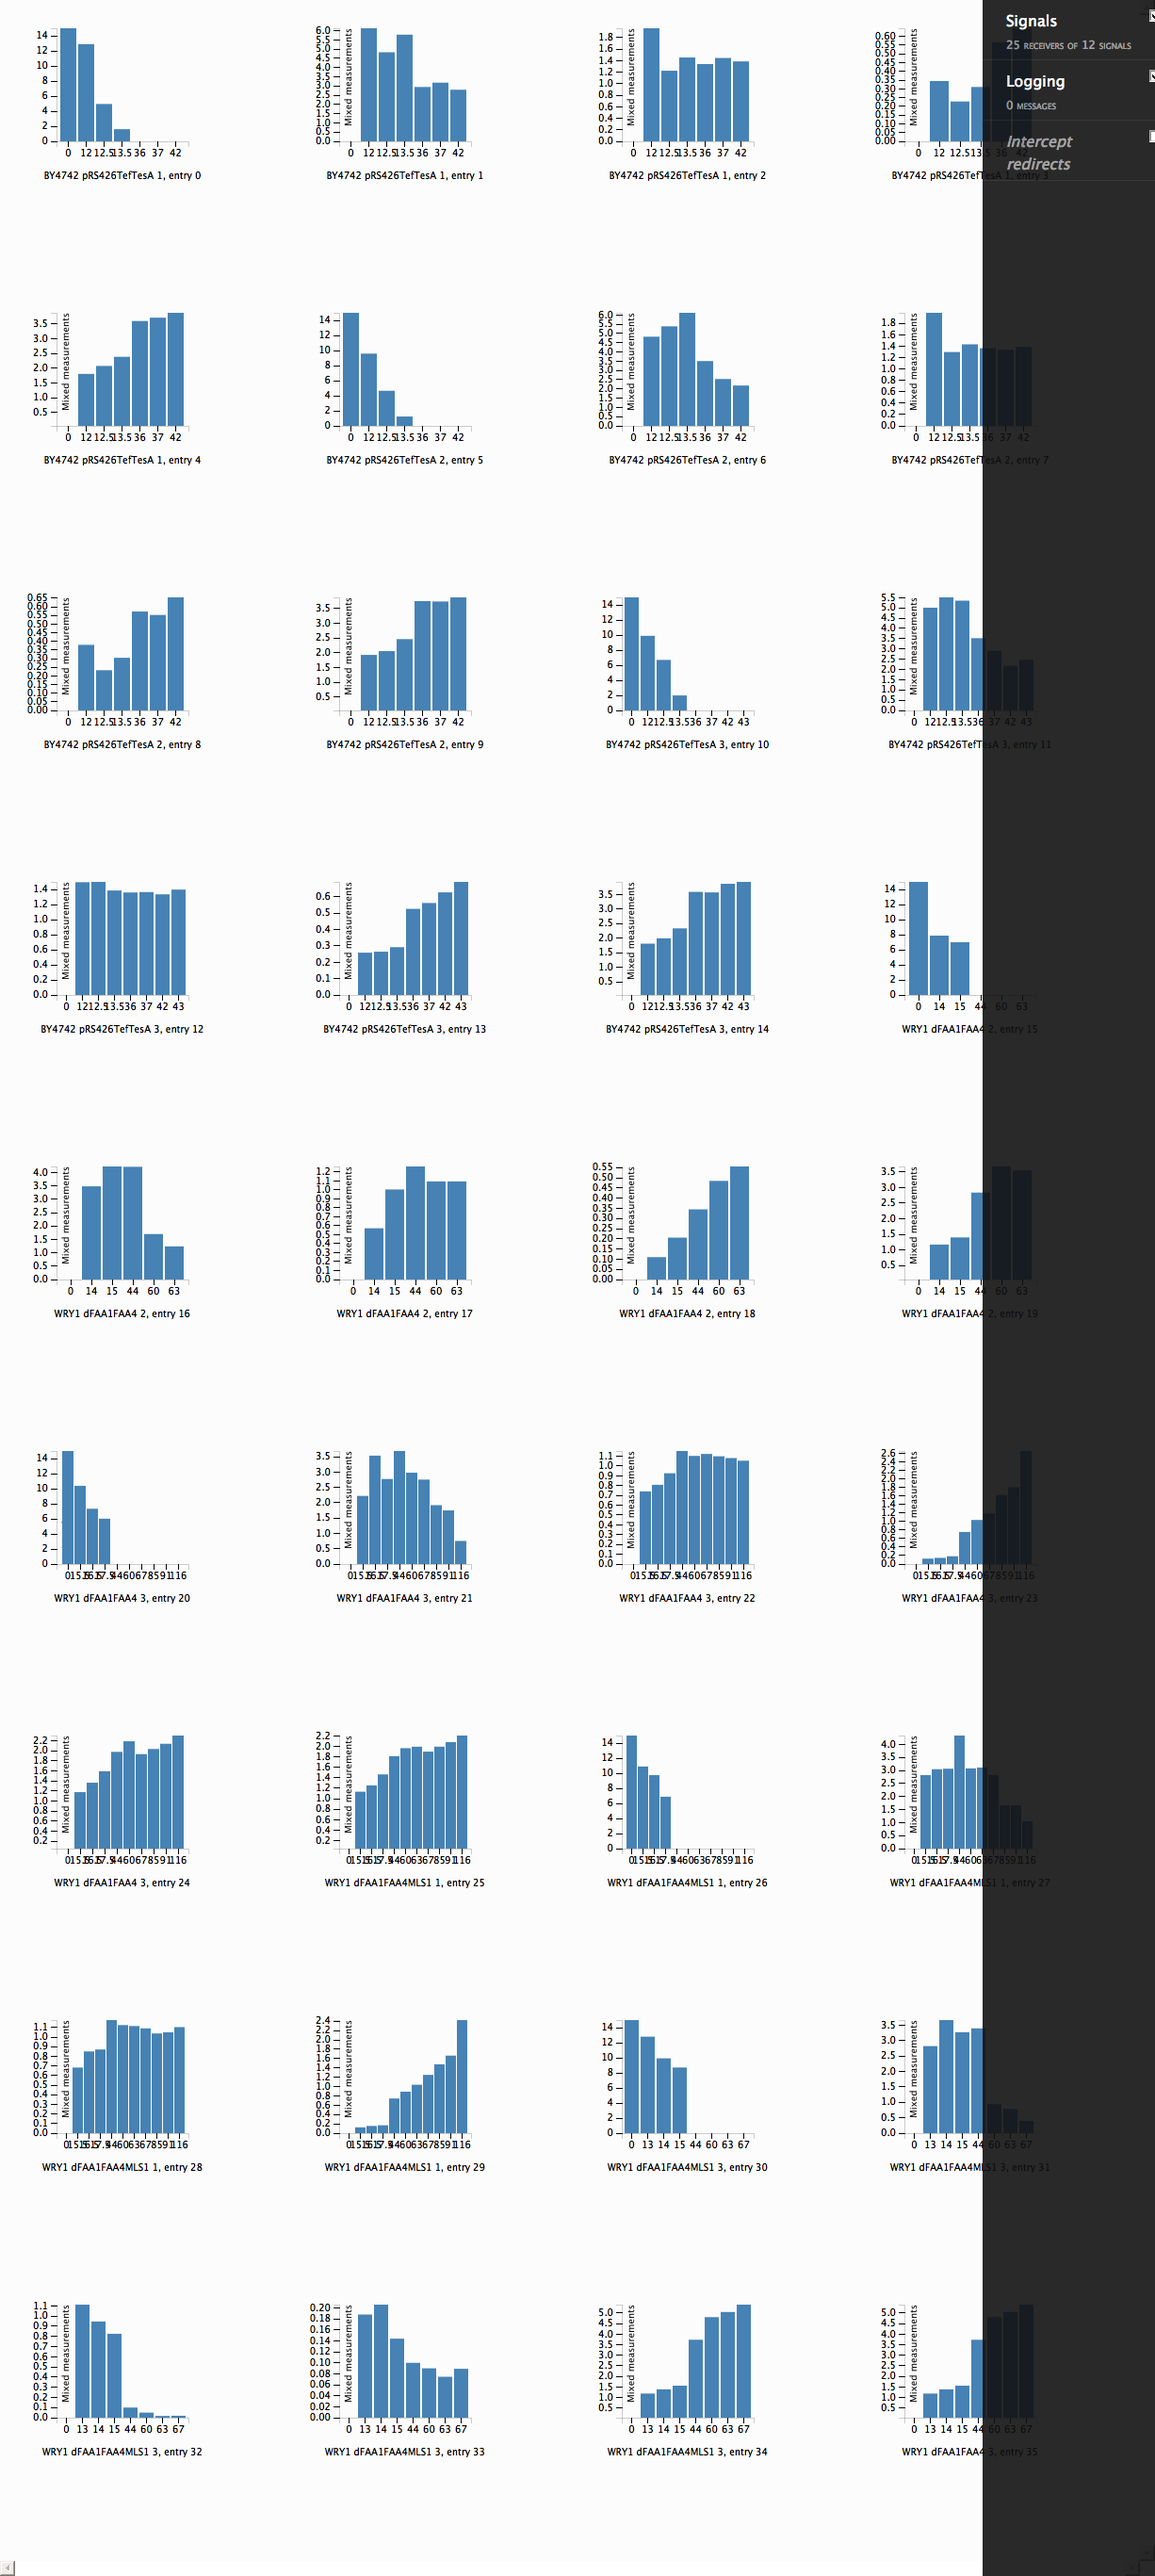
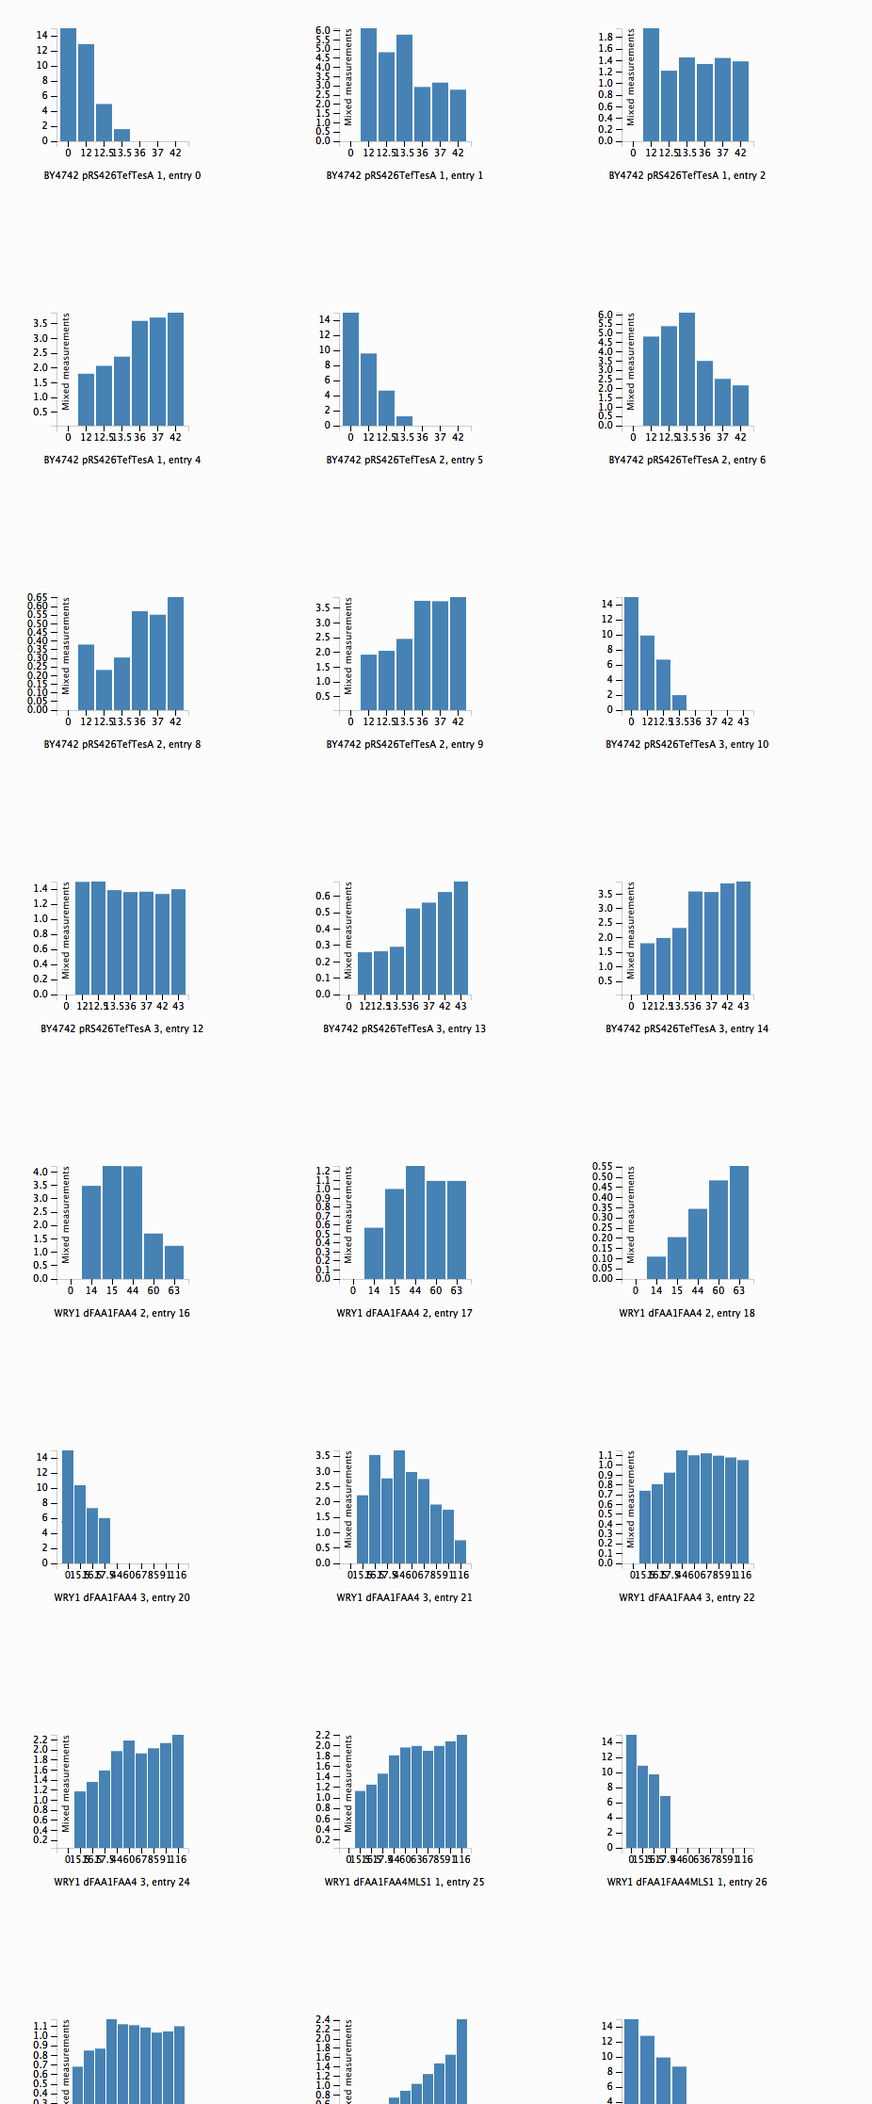
screenshot capture and save script is finished

diff --git a/main/fixtures/shots.js b/main/fixtures/shots.js
@@ -1,5 +1,5 @@
-var CLASSIDS = ['.single', '.groupedAssay', '.timeBar'],
-    BUTTONIDS = ['.singleBar', '.groupByProteinBar', '.groupByTimeBar'];
+var CLASSIDS = ['.linechart', '.single', '.groupedAssay', '.timeBar'],
+    BUTTONIDS = ['.line', '.singleBar', '.groupByProteinBar', '.groupByTimeBar'];
     SCREENSHOT_WIDTH = 1280; 
     SCREENSHOT_HEIGHT = 900; 
     LOAD_WAIT_TIME = 5000; 
@@ -24,7 +24,7 @@ var renderPage = function(page, elementId, buttonId){
                 top:    clipRect.top,
                 left:   clipRect.left,
                 bottom: clipRect.bottom,
-                width:  clipRect.width,
+                width:  clipRect.width - 300,
                 height: clipRect.height
         };
     var filename = elementId.slice(1) + '.png';
